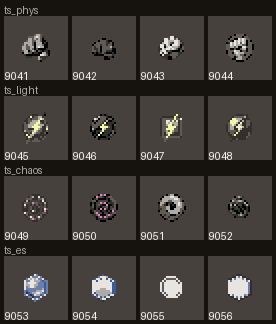
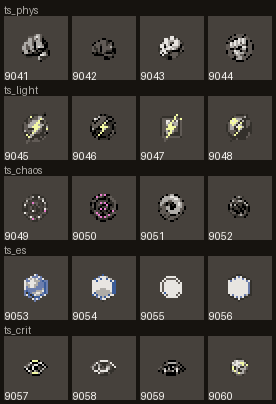
M2-36 D2 補跑：第 14 列（挑圖用）
Claude-Session: https://claude.ai/code/session_01LdUmBLLbZ3qo2BnEdyLSAK

diff --git a/art/_tmp/m2-36-d2-rerun/results.md b/art/_tmp/m2-36-d2-rerun/results.md
@@ -25,7 +25,7 @@
 | 11 | `ts_light` | 4 | 4 | 0 | 1 |
 | 12 | `ts_chaos` | 4 | 4 | 0 | 0 |
 | 13 | `ts_es` | 4 | 4 | 0 | 4 |
-| 14 | `ts_crit` | 4 | 0 | 0 | 0 |
+| 14 | `ts_crit` | 4 | 4 | 0 | 4 |
 | 15 | `ts_proj` | 4 | 0 | 0 | 0 |
 | 16 | `ts_area` | 4 | 0 | 0 | 0 |
 | 17 | `boss_fengbo` | 4 | 0 | 0 | 0 |
@@ -42,7 +42,7 @@
 | 28 | `cur_pcalam` | 3 | 0 | 0 | 0 |
 | 29 | `cur_ink` | 3 | 0 | 0 | 0 |
 | 30 | `plq_corner` | 3 | 0 | 0 | 0 |
-| 合計 | | 111 | 55 | 1 | 37 |
+| 合計 | | 111 | 59 | 1 | 41 |
 
 ## 牆
 
@@ -112,10 +112,10 @@
 | 13 | `ts_es` | 9054 | 成功 | 原圖 32，post 縮成 16；原圖 ΔE>3 0%；最大 ΔE 0.0；放大圖 否；禁色 0；不透明 48%；半透明(原圖) 0；C*>40 0%；C* 上限 25%；棋盤 3；外框判定 實心圓盤／圓底（剪影對同面積圓 IoU 0.94）（主體就是六角外框，不擋，待美術看）；本批別組最大 IoU 0.89（只回報） | ✅ |
 | 13 | `ts_es` | 9055 | 成功 | 原圖 32，post 縮成 16；原圖 ΔE>3 0%；最大 ΔE 0.0；放大圖 否；禁色 0；不透明 39%；半透明(原圖) 0；C*>40 0%；C* 上限 25%；棋盤 5；外框判定 實心圓盤／圓底（剪影對同面積圓 IoU 0.98）（主體就是六角外框，不擋，待美術看）；本批別組最大 IoU 0.89（只回報） | ✅ |
 | 13 | `ts_es` | 9056 | 成功 | 原圖 32，post 縮成 16；原圖 ΔE>3 0%；最大 ΔE 0.0；放大圖 否；禁色 0；不透明 52%；半透明(原圖) 0；C*>40 0%；C* 上限 25%；棋盤 1；外框判定 實心圓盤／圓底（剪影對同面積圓 IoU 0.93）（主體就是六角外框，不擋，待美術看）；本批別組最大 IoU 0.92（只回報） | ✅ |
-| 14 | `ts_crit` | 9057 | 未送出 | — | — |
-| 14 | `ts_crit` | 9058 | 未送出 | — | — |
-| 14 | `ts_crit` | 9059 | 未送出 | — | — |
-| 14 | `ts_crit` | 9060 | 未送出 | — | — |
+| 14 | `ts_crit` | 9057 | 成功 | 原圖 32，post 縮成 16；原圖 ΔE>3 0%；最大 ΔE 0.0；放大圖 否；禁色 0；不透明 26%；半透明(原圖) 0；C*>40 9%；C* 上限 25%；棋盤 5；本批別組最大 IoU 0.68（只回報） | ✅ |
+| 14 | `ts_crit` | 9058 | 成功 | 原圖 32，post 縮成 16；原圖 ΔE>3 0%；最大 ΔE 0.0；放大圖 否；禁色 0；不透明 27%；半透明(原圖) 0；C*>40 0%；C* 上限 25%；棋盤 3；本批別組最大 IoU 0.69（只回報） | ✅ |
+| 14 | `ts_crit` | 9059 | 成功 | 原圖 32，post 縮成 16；原圖 ΔE>3 0%；最大 ΔE 0.0；放大圖 否；禁色 0；不透明 29%；半透明(原圖) 0；C*>40 0%；C* 上限 25%；棋盤 5；本批別組最大 IoU 0.72（只回報） | ✅ |
+| 14 | `ts_crit` | 9060 | 成功 | 原圖 32，post 縮成 16；原圖 ΔE>3 0%；最大 ΔE 0.0；放大圖 否；禁色 0；不透明 25%；半透明(原圖) 0；C*>40 12%；C* 上限 25%；棋盤 2；本批別組最大 IoU 0.66（只回報） | ✅ |
 | 15 | `ts_proj` | 9061 | 未送出 | — | — |
 | 15 | `ts_proj` | 9062 | 未送出 | — | — |
 | 15 | `ts_proj` | 9063 | 未送出 | — | — |
